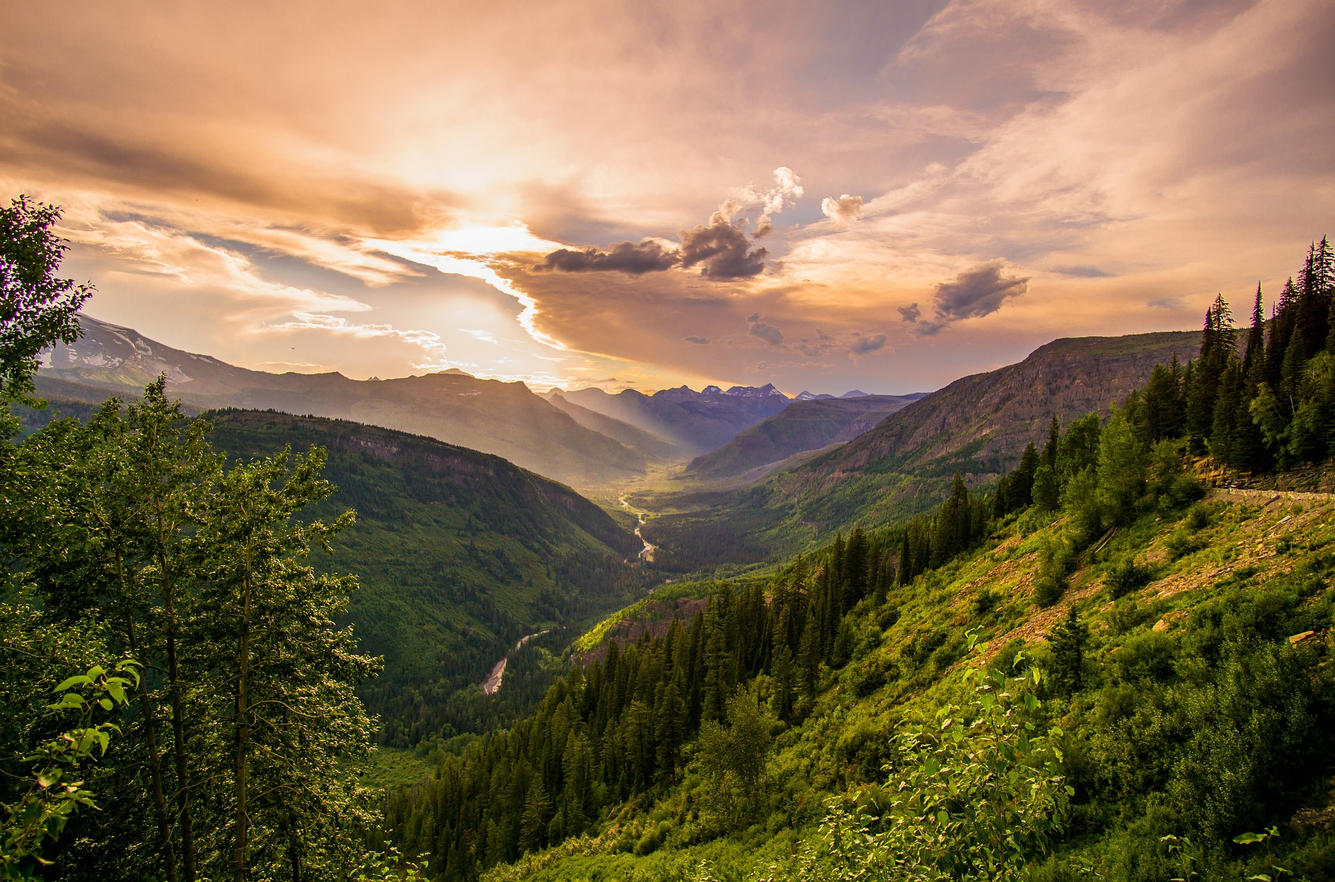
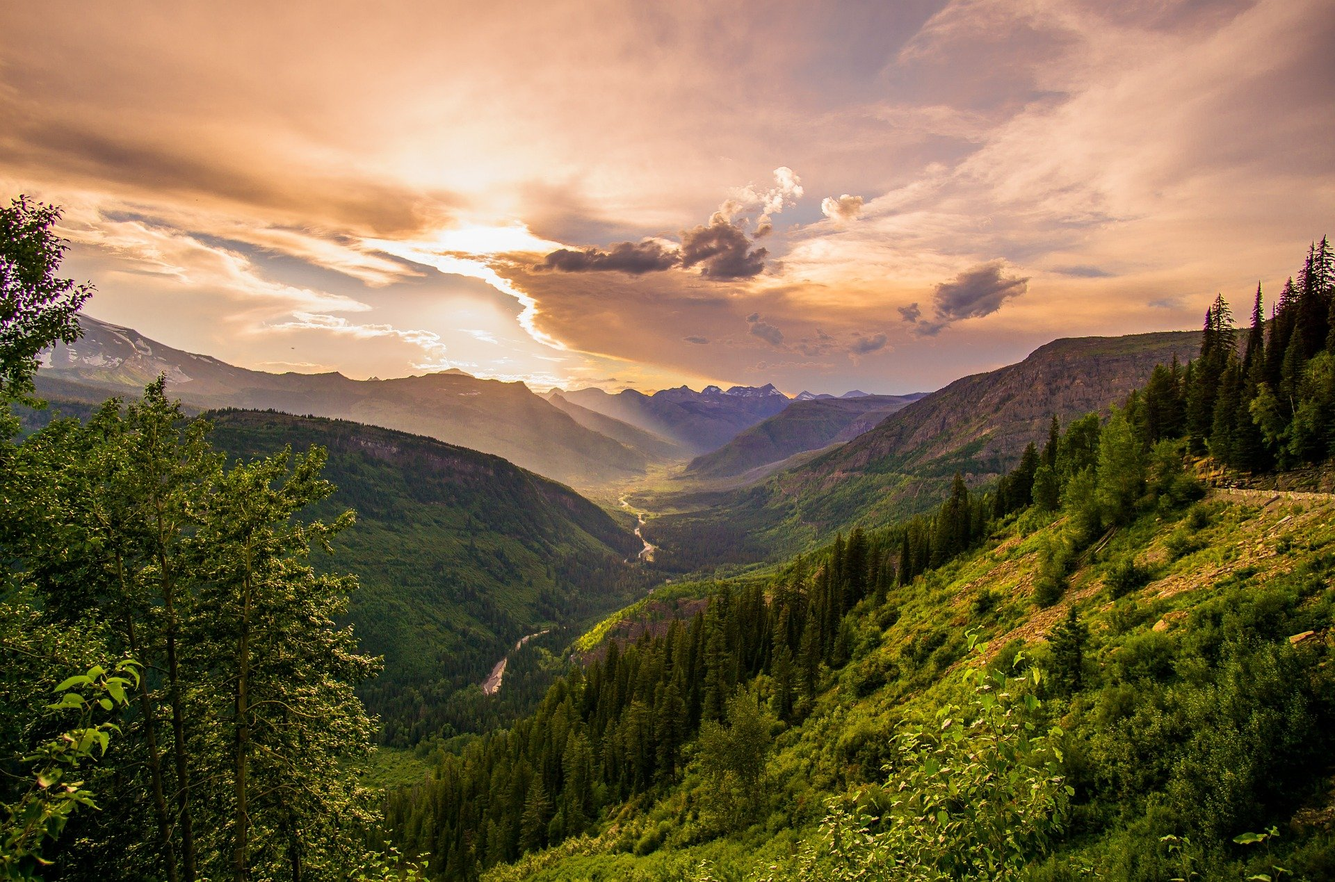
added LinkedIn / optimized images

diff --git a/atelier/atelier-index.html b/atelier/atelier-index.html
@@ -7,7 +7,7 @@
     <link rel="preconnect" href="https://fonts.googleapis.com">
     <link rel="preconnect" href="https://fonts.gstatic.com" crossorigin>
     <link href="https://fonts.googleapis.com/css2?family=Merienda:wght@700&display=swap" rel="stylesheet">
-    <title>Silent Cove</title>
+    <title>Silent Grove</title>
 </head>
 <body>
         <section class="logo"><img class="logo-png" src="./assets/logo.png"/>
@@ -18,18 +18,18 @@
 
 <div class="full-flex">
         <section class="atelier">
-            <img class="deer pic" src="./assets/deer.png" alt="Deer in a Mystical Forest"/>
-            <img class="butterfly pic" src="./assets/butterfly.png" alt="Butterfly in a Mystical Forest"/>
-            <img class="fox pic" src="./assets/fox.png" alt="Fox in a Mystical Forest"/>
-            <img class="luchs pic" src="./assets/luchs.png" alt="Luchs? in a Mystical Forest"/>
-            <img class="owl pic" src="./assets/owl.png" alt="Owl in a Mystical Forest"/>
-            <img class="rabbit pic" src="./assets/rabbit.png" alt="Rabbit in a Mystical Forest"/>
+            <img class="deer pic" src="./assets/deer.jpg" alt="Deer in a Mystical Forest"/>
+            <img class="butterfly pic" src="./assets/butterfly.jpg" alt="Butterfly in a Mystical Forest"/>
+            <img class="fox pic" src="./assets/fox.jpg" alt="Fox in a Mystical Forest"/>
+            <img class="luchs pic" src="./assets/luchs.jpg" loading="lazy" alt="Luchs? in a Mystical Forest"/>
+            <img class="owl pic" src="./assets/owl.jpg" loading="lazy" alt="Owl in a Mystical Forest"/>
+            <img class="rabbit pic" src="./assets/rabbit.jpg" loading="lazy" alt="Rabbit in a Mystical Forest"/>
         </section>
 
     </div>
 </body>
 <footer>
-    <p>2025 - SilentCove Webdemo - 
+    <p>2025 - SilentGrove Webdemo - 
         
         <a href="https://github.com/simon-wdev">GitHub Simon Wachert</a>
 

diff --git a/index.html b/index.html
@@ -33,13 +33,13 @@
     </div>
 
     <div class="card-container">
-        <a href="./landingpage/webdemo.html"><img class="card" src="./Assets/focusflow_preview.png" alt="FocusFlow Projekt" />
+        <a href="./landingpage/webdemo.html"><img class="card" src="./Assets/focusflow_preview.jpg" alt="FocusFlow Projekt" />
         <div class="overlay">FocusFlow - CSS WebDemo</div></a>
     </div>
 
     <div class="card-container">
-        <a href="./atelier/atelier-index.html"><img class="card" src="./Assets/wolf.png" alt="SilentCove Projekt" />
-        <div class="overlay">SilentCove - CSS WebDemo</div></a>
+        <a href="./atelier/atelier-index.html"><img class="card" src="./Assets/wolf.jpg" alt="SilentCove Projekt" />
+        <div class="overlay">SilentGrove - CSS WebDemo</div></a>
     </div>
 
 </div>
@@ -79,7 +79,7 @@
         </div>
         <div class="contact-buttons">
         <a href="https://github.com/simon-wdev"><img class="github-logo logo" src="./Assets/github.png"></a>
-        <a href="*"><img class="linkedin-logo logo" src="./Assets/linkedin.png"></a>
+        <a href="https://www.linkedin.com/in/simon-wachert-645012370/"><img class="linkedin-logo logo" src="./Assets/linkedin.png"></a>
         </div>
         </div>
     </section>

diff --git a/style.css b/style.css
@@ -21,7 +21,7 @@ body {
   font-family: Arial, sans-serif;
   line-height: 1.6;
   color: var(--text-color);
-  background: url(./Assets/background.png) no-repeat center center fixed;
+  background: url(./Assets/background.jpg) no-repeat center center fixed;
   background-size: cover;
   max-width: 1200px;
   margin: 40px auto 0 auto;

diff --git a/atelier/atelier-style.css b/atelier/atelier-style.css
@@ -13,7 +13,7 @@ html{
 }
 
 body {
-    background: url(./assets/background.png) no-repeat center center fixed;
+    background: url(./assets/background.jpg) no-repeat center center fixed;
     background-size: cover;
     color: var(--text-color);
 }
